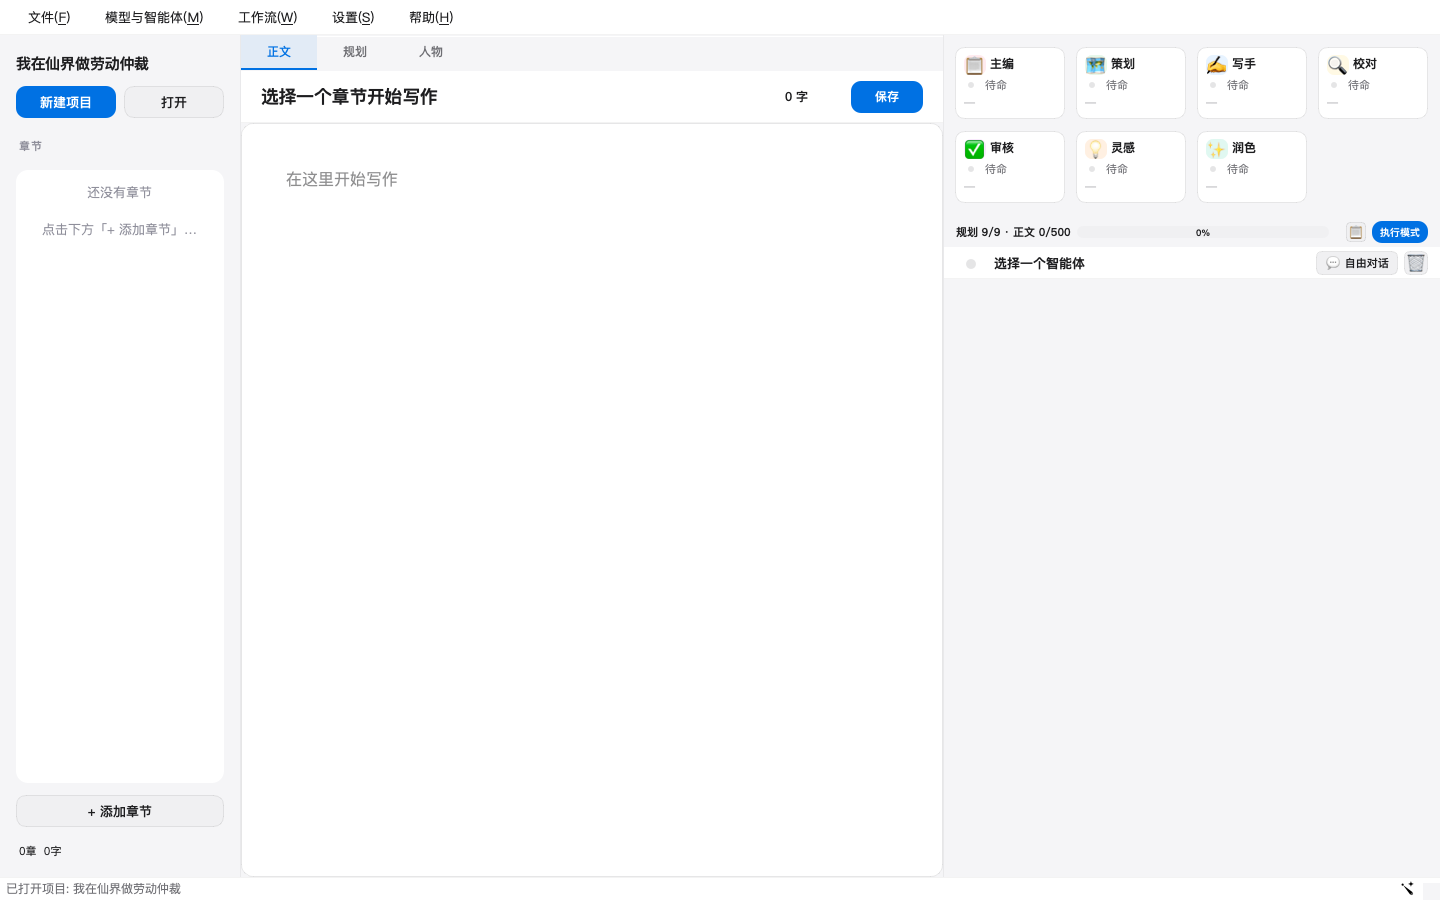
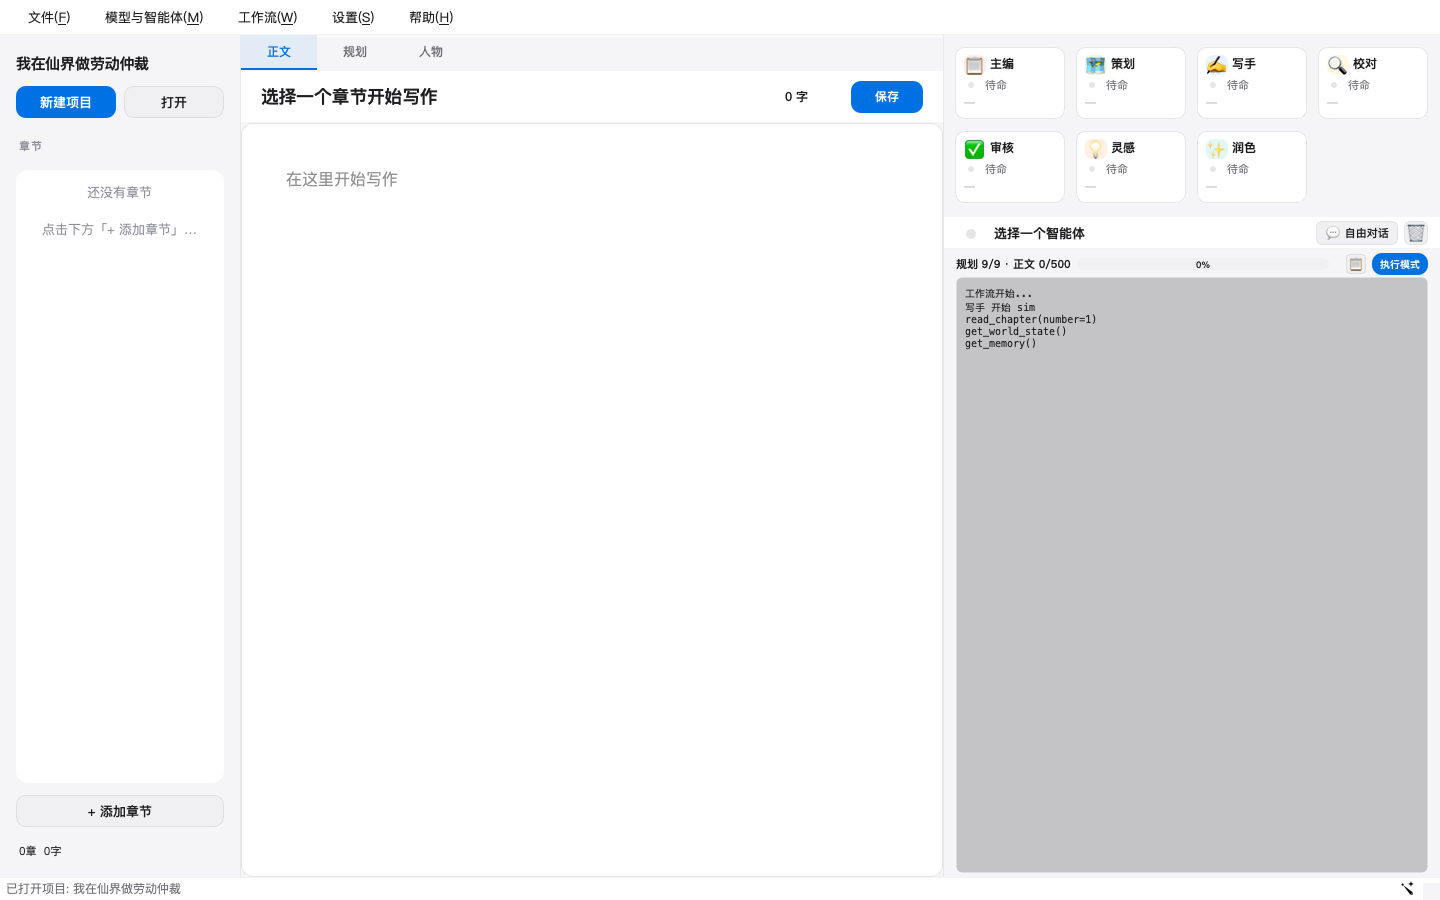
feat(ui): 折叠时工作流日志占满；自由对话接入只读工具
- header 上移到日志上方；聊天折叠时 WorkflowMiniBar 展开吃掉剩余高度
- 展开自由对话后 AgentWorker 用 NovelToolkit：可读大纲/正文/记忆/世界状态/伏笔/技能
- 工具只读，不允许自由对话改文件；带 XML 工具标记自动降级
- 293 passed

Changed region(s): [[0.6562, 0.2489, 1.0, 0.9956]]

diff --git a/src/novel_writer/ui/common/workers.py b/src/novel_writer/ui/common/workers.py
@@ -42,11 +42,12 @@ class AgentWorker(QThread):
     completed = Signal(str)  # 完成时的正文（不含思考）
     error = Signal(str)
 
-    def __init__(self, agent: BaseAgent, user_input: str, context: str = ""):
+    def __init__(self, agent: BaseAgent, user_input: str, context: str = "", toolkit=None):
         super().__init__()
         self.agent = agent
         self.user_input = user_input
         self.context = context
+        self.toolkit = toolkit
         self._cancelled = False
         self._loop: asyncio.AbstractEventLoop | None = None
         self._task: asyncio.Task | None = None
@@ -64,6 +65,21 @@ class AgentWorker(QThread):
         asyncio.set_event_loop(self._loop)
         try:
             answer_parts: list[str] = []
+
+            if self.toolkit is not None:
+                async def run_with_tools():
+                    resp = await self.agent.run_with_tools(
+                        self.toolkit, self.user_input, context=self.context,
+                        thinking="auto", keep_history=True,
+                    )
+                    return resp.content or ""
+
+                self._task = self._loop.create_task(run_with_tools())
+                full_response = self._loop.run_until_complete(self._task)
+                if not self._cancelled and full_response:
+                    self.chunk_received.emit("text", full_response)
+                    self.completed.emit(full_response)
+                return
 
             async def collect_stream():
                 async for kind, chunk in self.agent.stream_run(self.user_input, self.context):

diff --git a/src/novel_writer/ui/workflow/workflow_bar.py b/src/novel_writer/ui/workflow/workflow_bar.py
@@ -3,7 +3,7 @@ from __future__ import annotations
 
 from PySide6.QtWidgets import (
     QWidget, QVBoxLayout, QHBoxLayout, QLabel, QPushButton,
-    QProgressBar, QTextEdit,
+    QProgressBar, QTextEdit, QSizePolicy,
 )
 from PySide6.QtCore import Signal
 
@@ -78,6 +78,7 @@ class WorkflowMiniBar(QWidget):
         # 执行日志（默认隐藏）
         self._log_area = QTextEdit()
         self._log_area.setReadOnly(True)
+        self._log_area.setPlaceholderText("工作流日志")
         self._log_area.setMinimumHeight(80)
         self._log_area.setMaximumHeight(180)
         self._log_area.setStyleSheet(
@@ -109,6 +110,20 @@ class WorkflowMiniBar(QWidget):
 
     def set_has_workflow(self, has: bool):
         self._btn_start.setEnabled(has)
+
+    def set_fill_available(self, fill: bool):
+        """聊天折叠时让日志区吃掉剩余高度；展开时恢复 160px 上限。"""
+        self._log_area.setMaximumHeight(16777215 if fill else 180)
+        self.setMaximumHeight(16777215 if fill else 160)
+        self._log_area.setVisible(True if fill else self._log_expanded)
+        self._log_area.setSizePolicy(
+            QSizePolicy.Policy.Expanding if fill else QSizePolicy.Policy.Preferred,
+            QSizePolicy.Policy.Expanding if fill else QSizePolicy.Policy.Preferred,
+        )
+        self.setSizePolicy(
+            QSizePolicy.Policy.Expanding if fill else QSizePolicy.Policy.Preferred,
+            QSizePolicy.Policy.Expanding if fill else QSizePolicy.Policy.Preferred,
+        )
 
     def set_usage(self, usage: dict | None):
         usage = usage or {}

diff --git a/src/novel_writer/ui/agent/agent_panel.py b/src/novel_writer/ui/agent/agent_panel.py
@@ -118,6 +118,7 @@ class AgentPanel(QWidget):
         """)
         self.btn_clear.clicked.connect(self._clear_current_chat)
         header_layout.addWidget(self.btn_clear)
+        self._header = header
         layout.addWidget(header)
 
         # ── 未打开项目提示 ──
@@ -231,6 +232,11 @@ class AgentPanel(QWidget):
         self._project_loaded = False
         self._chat_locked = False   # 工作流执行中禁止自由对话
         self._working_active = False  # 单次对话生成中
+        self._root_layout = layout
+        # header 放在工作流日志上方：折叠时日志能吃掉下面整块空间
+        hi = layout.indexOf(self._header)
+        layout.removeWidget(self.workflow_bar)
+        layout.insertWidget(hi + 1, self.workflow_bar)
         self._set_chat_expanded(False)
 
     def _set_chat_expanded(self, expanded: bool):
@@ -245,7 +251,9 @@ class AgentPanel(QWidget):
         self._input_area.setVisible(self._chat_expanded)
         self._quick_bar.setVisible(self._chat_expanded and bool(self._quick_buttons))
         self._loading_label.setVisible(self._chat_expanded and self._working_active)
-        self._collapsed_spacer.setVisible(not self._chat_expanded)
+        self.workflow_bar.set_fill_available(not self._chat_expanded)
+        self._root_layout.setStretchFactor(self.workflow_bar, 0 if self._chat_expanded else 1)
+        self._collapsed_spacer.setVisible(False)
         if self._chat_expanded:
             self._update_empty_hint()
             QTimer.singleShot(0, self._scroll_chat_to_bottom)

diff --git a/src/novel_writer/ui/app_shell/chat_mixin.py b/src/novel_writer/ui/app_shell/chat_mixin.py
@@ -29,7 +29,24 @@ class ChatMixin:
         context = self._build_context(agent_name)
         logger.debug("context_len=%d, context_preview=%r", len(context), context[:200])
         self.agent_panel.set_working(True, agent_name)
-        self._worker = AgentWorker(agent, user_input, context)
+        toolkit = None
+        if self.project.project_dir:
+            try:
+                from ...core.agents.tools import NovelToolkit
+                chapter_n = (
+                    self._parse_target_chapter(user_input)
+                    or getattr(getattr(self.editor, "_current_chapter", None), "number", 0)
+                    or len(self.project.chapters) + 1
+                )
+                toolkit = NovelToolkit(
+                    self.project.project_dir,
+                    {"title": self.project.title, "genre": self.project.genre,
+                     "target_chapters": self.project.target_chapters},
+                    chapter_n,
+                ).build(None)
+            except Exception as e:
+                logger.warning("自由对话工具集创建失败（降级纯文本）: %s", e)
+        self._worker = AgentWorker(agent, user_input, context, toolkit=toolkit)
         self._worker.chunk_received.connect(partial(self._on_agent_stream, agent_name))
         self._worker.completed.connect(partial(self._on_agent_finished, agent_name))
         self._worker.error.connect(self._on_agent_error)

diff --git a/README.md b/README.md
@@ -119,8 +119,8 @@ data/                        # 用户数据（gitignore）
 
 - `Ctrl+Shift+F` 专注模式：只留正文，再按恢复；
 - 一级标签：`正文 / 规划 / 人物`；规划文档用左侧列表切换，不再有 10 个标签溢出；
-- 自由对话默认折叠，点右上「自由对话」展开；聊天不落 SQLite；
-- `人物` 是独立页面：分档/状态/auto_sim/目标/备注，菜单 `Ctrl+Alt+R` 也直接切过去；从人物设定建卡时会自动去括号/角色前缀并推断 core/recurring/extra；
+- 自由对话默认折叠，点右上「自由对话」展开；折叠时工作流日志自动占满剩余空间；聊天不落 SQLite；
+- `人物` 是独立页面：分档/状态/auto_sim/目标/备注，菜单 `Ctrl+Alt+R` 也直接切过去；从人物设定建卡时会自动去括号/角色前缀并推断 core/recurring/extra；自由对话带只读工具，可查大纲/正文/记忆/世界状态；
 - 智能体状态条按 4 列两行展示，超过 8 个纵向滚动。
 
 ## 写作流程

diff --git a/docs/UI设计审查.md b/docs/UI设计审查.md
@@ -68,7 +68,7 @@
 
 ## 自由对话折叠
 
-默认只保留状态条/工作流/日志，右上「自由对话」按需展开；不再常驻输入区。
+默认只保留状态条/工作流/日志，右上「自由对话」按需展开；折叠时工作流日志自动占满剩余高度，不再留大块空白。
 
 ![自由对话折叠](assets/ui/chat-collapsed.png)
 
